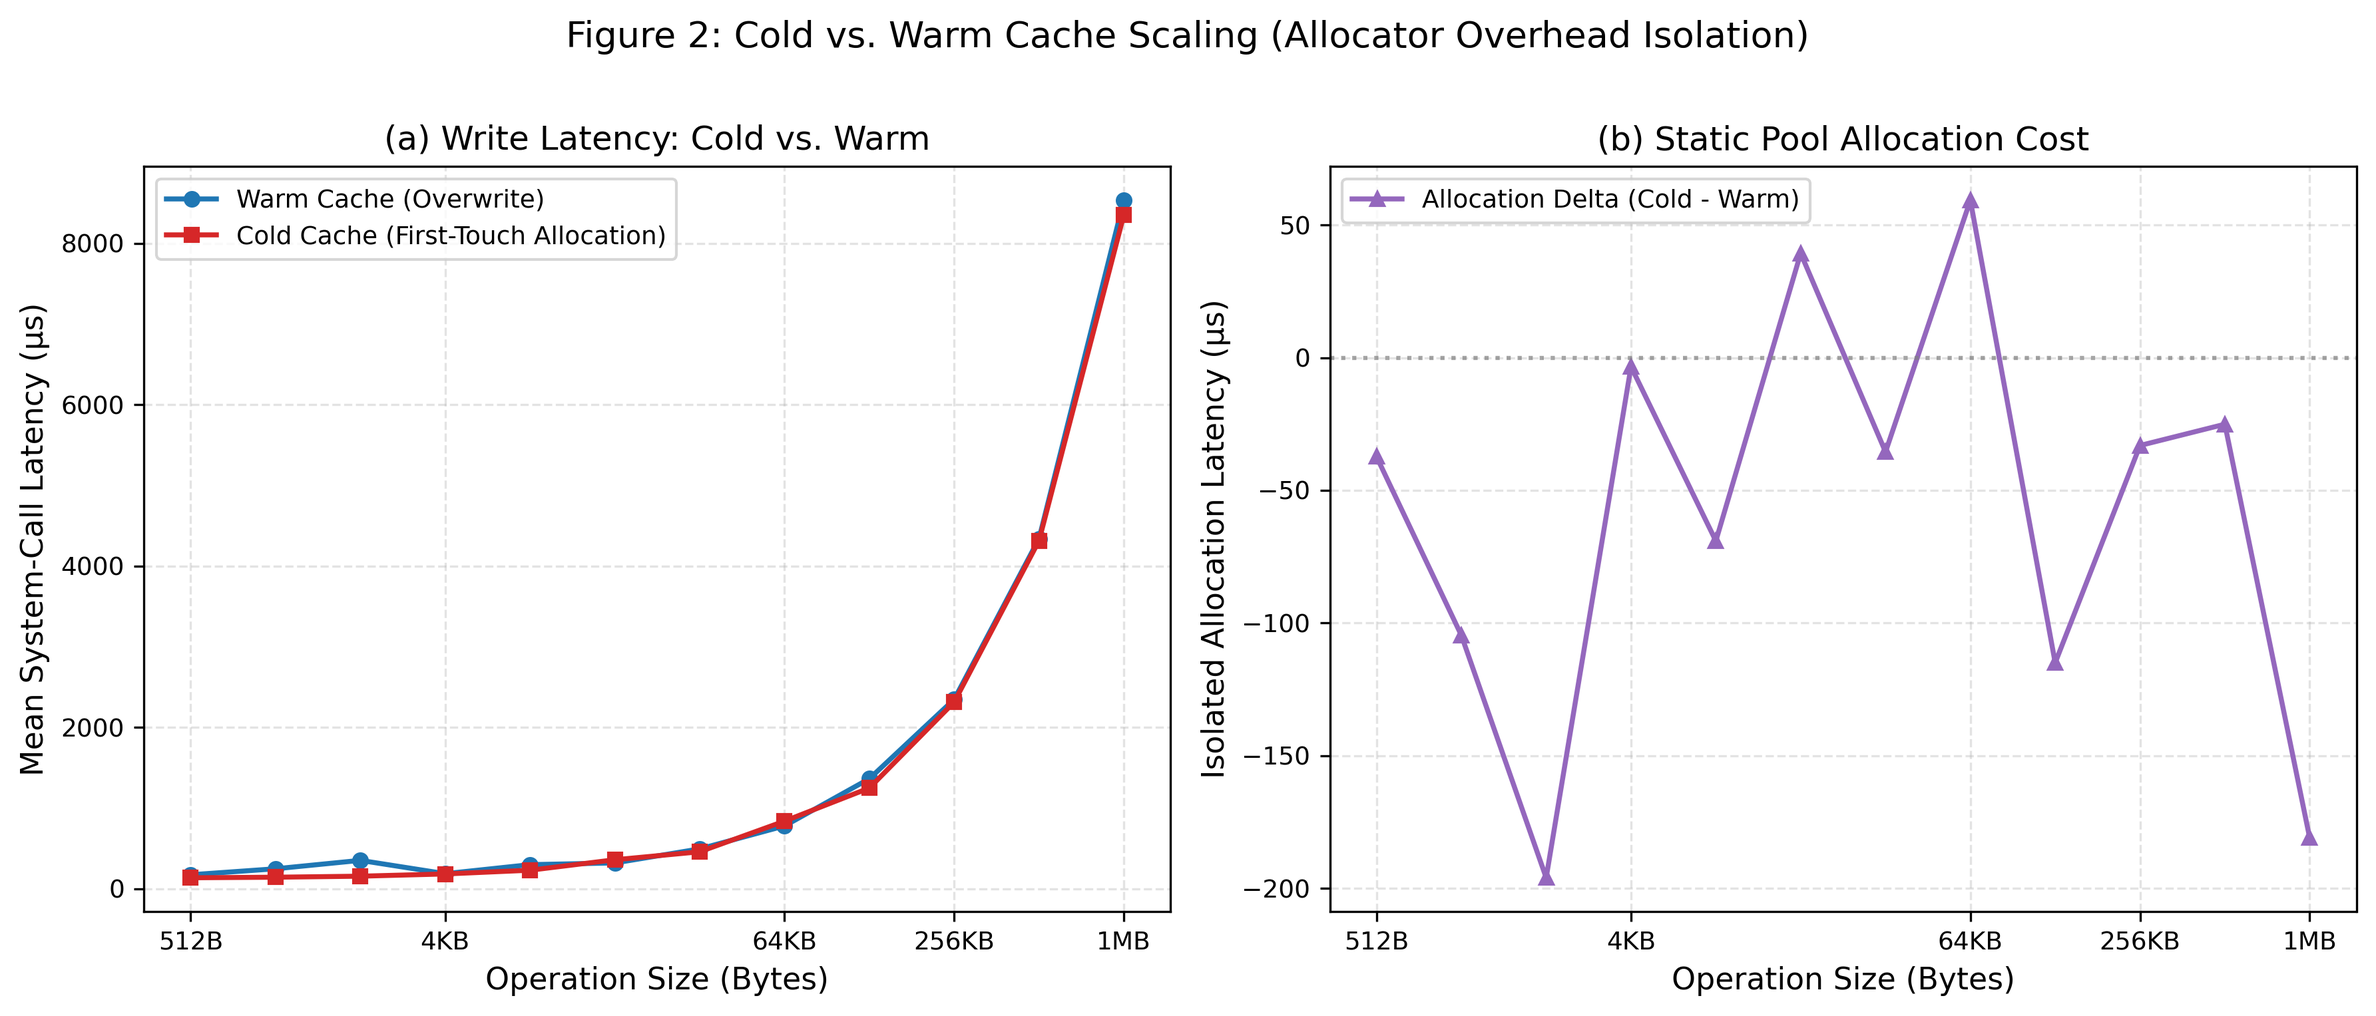
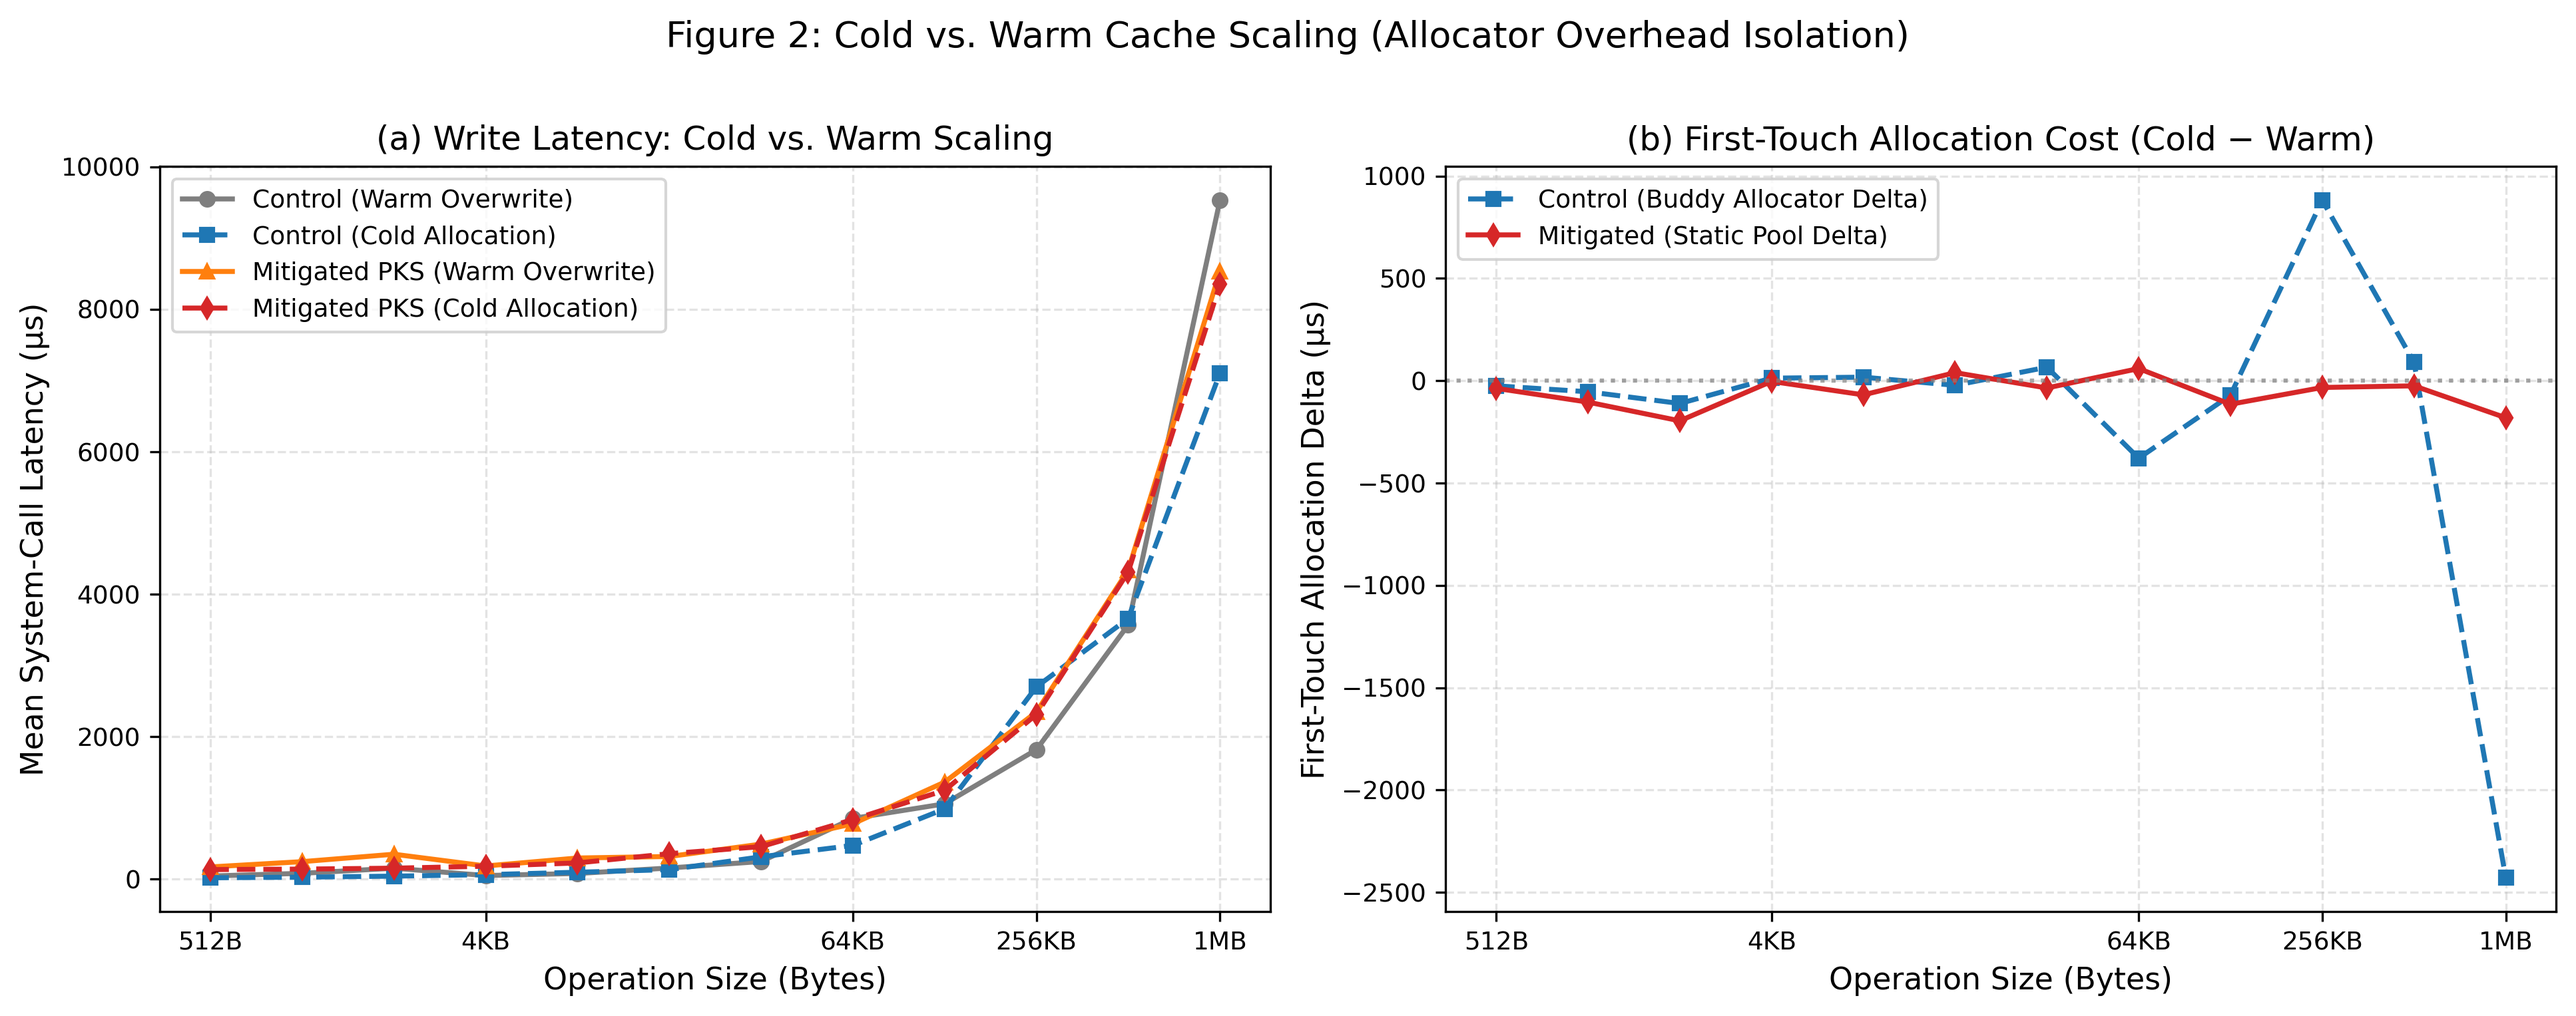
10-11-2-16 : fix warm-cold graphs

diff --git a/tools/plotting/plot_thesis_figures.py b/tools/plotting/plot_thesis_figures.py
@@ -276,46 +276,60 @@ def plot_figure1(fio_data: List[Dict], out_dir: Path):
 
 def plot_figure2(fio_data: List[Dict], out_dir: Path):
     """Figure 2: Cold vs. Warm Cache Scaling (Allocator Overhead Isolation)."""
+    warm_ctrl, cold_ctrl = {}, {}
     warm_mit, cold_mit = {}, {}
     for d in fio_data:
-        if d["syscall"] != "write" or d["kernel_variant"] != "mitigated_on":
+        if d["syscall"] != "write":
             continue
+        v = d["kernel_variant"]
         bs = d["block_size_bytes"]
-        if d["cache_state"] == "warm":
-            warm_mit[bs] = d["latency_ns"] / 1000.0
-        elif d["cache_state"] == "cold":
-            cold_mit[bs] = d["latency_ns"] / 1000.0
+        lat_us = d["latency_ns"] / 1000.0
+        if v == "baseline_control":
+            if d["cache_state"] == "warm":
+                warm_ctrl[bs] = lat_us
+            elif d["cache_state"] == "cold":
+                cold_ctrl[bs] = lat_us
+        elif v == "mitigated_on":
+            if d["cache_state"] == "warm":
+                warm_mit[bs] = lat_us
+            elif d["cache_state"] == "cold":
+                cold_mit[bs] = lat_us
 
-    bs_keys = sorted(set(warm_mit.keys()) & set(cold_mit.keys()))
-    if not bs_keys:
+    common_keys = sorted(set(warm_ctrl.keys()) & set(cold_ctrl.keys()) & set(warm_mit.keys()) & set(cold_mit.keys()))
+    if not common_keys:
         return
 
-    fig, (ax1, ax2) = plt.subplots(1, 2, figsize=(12, 5))
+    fig, (ax1, ax2) = plt.subplots(1, 2, figsize=(13, 5))
     xticks = [512, 4096, 65536, 262144, 1048576]
     xticklabels = [format_bytes(x) for x in xticks]
 
-    # Panel (a): Warm vs Cold
-    ax1.plot(bs_keys, [warm_mit[k] for k in bs_keys], marker="o", color="#1f77b4", label="Warm Cache (Overwrite)")
-    ax1.plot(bs_keys, [cold_mit[k] for k in bs_keys], marker="s", color="#d62728", label="Cold Cache (First-Touch Allocation)")
+    # Panel (a): 4-Curve Latency: Warm vs Cold across Control and Mitigated
+    ax1.plot(common_keys, [warm_ctrl[k] for k in common_keys], marker="o", linestyle="-", color="#7f7f7f", label="Control (Warm Overwrite)")
+    ax1.plot(common_keys, [cold_ctrl[k] for k in common_keys], marker="s", linestyle="--", color="#1f77b4", label="Control (Cold Allocation)")
+    ax1.plot(common_keys, [warm_mit[k] for k in common_keys], marker="^", linestyle="-", color="#ff7f0e", label="Mitigated PKS (Warm Overwrite)")
+    ax1.plot(common_keys, [cold_mit[k] for k in common_keys], marker="d", linestyle="--", color="#d62728", label="Mitigated PKS (Cold Allocation)")
     ax1.set_xscale("log", base=2)
     ax1.set_xlabel("Operation Size (Bytes)")
     ax1.set_ylabel("Mean System-Call Latency (µs)")
-    ax1.set_title("(a) Write Latency: Cold vs. Warm")
+    ax1.set_title("(a) Write Latency: Cold vs. Warm Scaling")
     ax1.grid(True)
-    ax1.legend()
+    ax1.legend(fontsize=9)
     ax1.set_xticks(xticks)
     ax1.set_xticklabels(xticklabels)
 
-    # Panel (b): Allocation Delta
-    deltas = [cold_mit[k] - warm_mit[k] for k in bs_keys]
-    ax2.plot(bs_keys, deltas, marker="^", color="#9467bd", label="Allocation Delta (Cold - Warm)")
+    # Panel (b): Allocation Delta Comparison (Cold - Warm)
+    ctrl_deltas = [cold_ctrl[k] - warm_ctrl[k] for k in common_keys]
+    mit_deltas = [cold_mit[k] - warm_mit[k] for k in common_keys]
+
+    ax2.plot(common_keys, ctrl_deltas, marker="s", linestyle="--", color="#1f77b4", label="Control (Buddy Allocator Delta)")
+    ax2.plot(common_keys, mit_deltas, marker="d", linestyle="-", color="#d62728", label="Mitigated (Static Pool Delta)")
     ax2.axhline(0, color="gray", linestyle=":", linewidth=1.5, alpha=0.7)
     ax2.set_xscale("log", base=2)
     ax2.set_xlabel("Operation Size (Bytes)")
-    ax2.set_ylabel("Isolated Allocation Latency (µs)")
-    ax2.set_title("(b) Static Pool Allocation Cost")
+    ax2.set_ylabel("First-Touch Allocation Delta (µs)")
+    ax2.set_title("(b) First-Touch Allocation Cost (Cold − Warm)")
     ax2.grid(True)
-    ax2.legend()
+    ax2.legend(fontsize=9)
     ax2.set_xticks(xticks)
     ax2.set_xticklabels(xticklabels)
 
